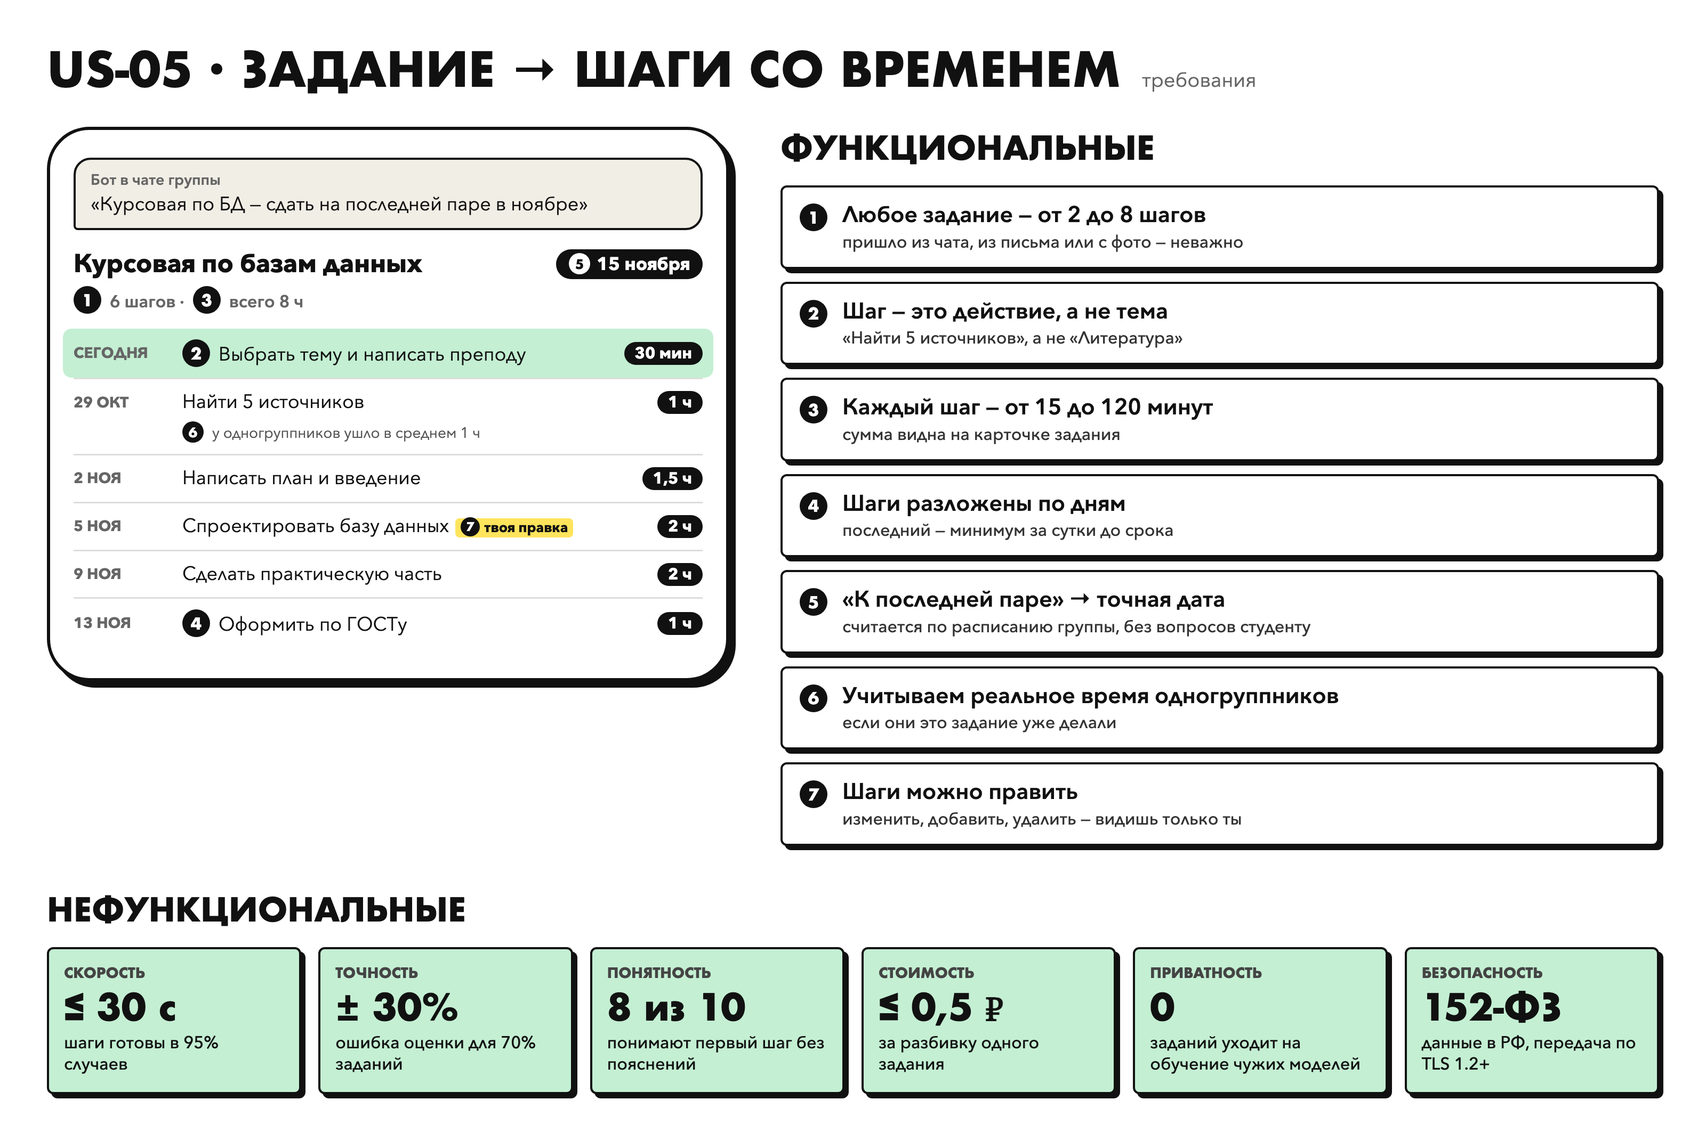
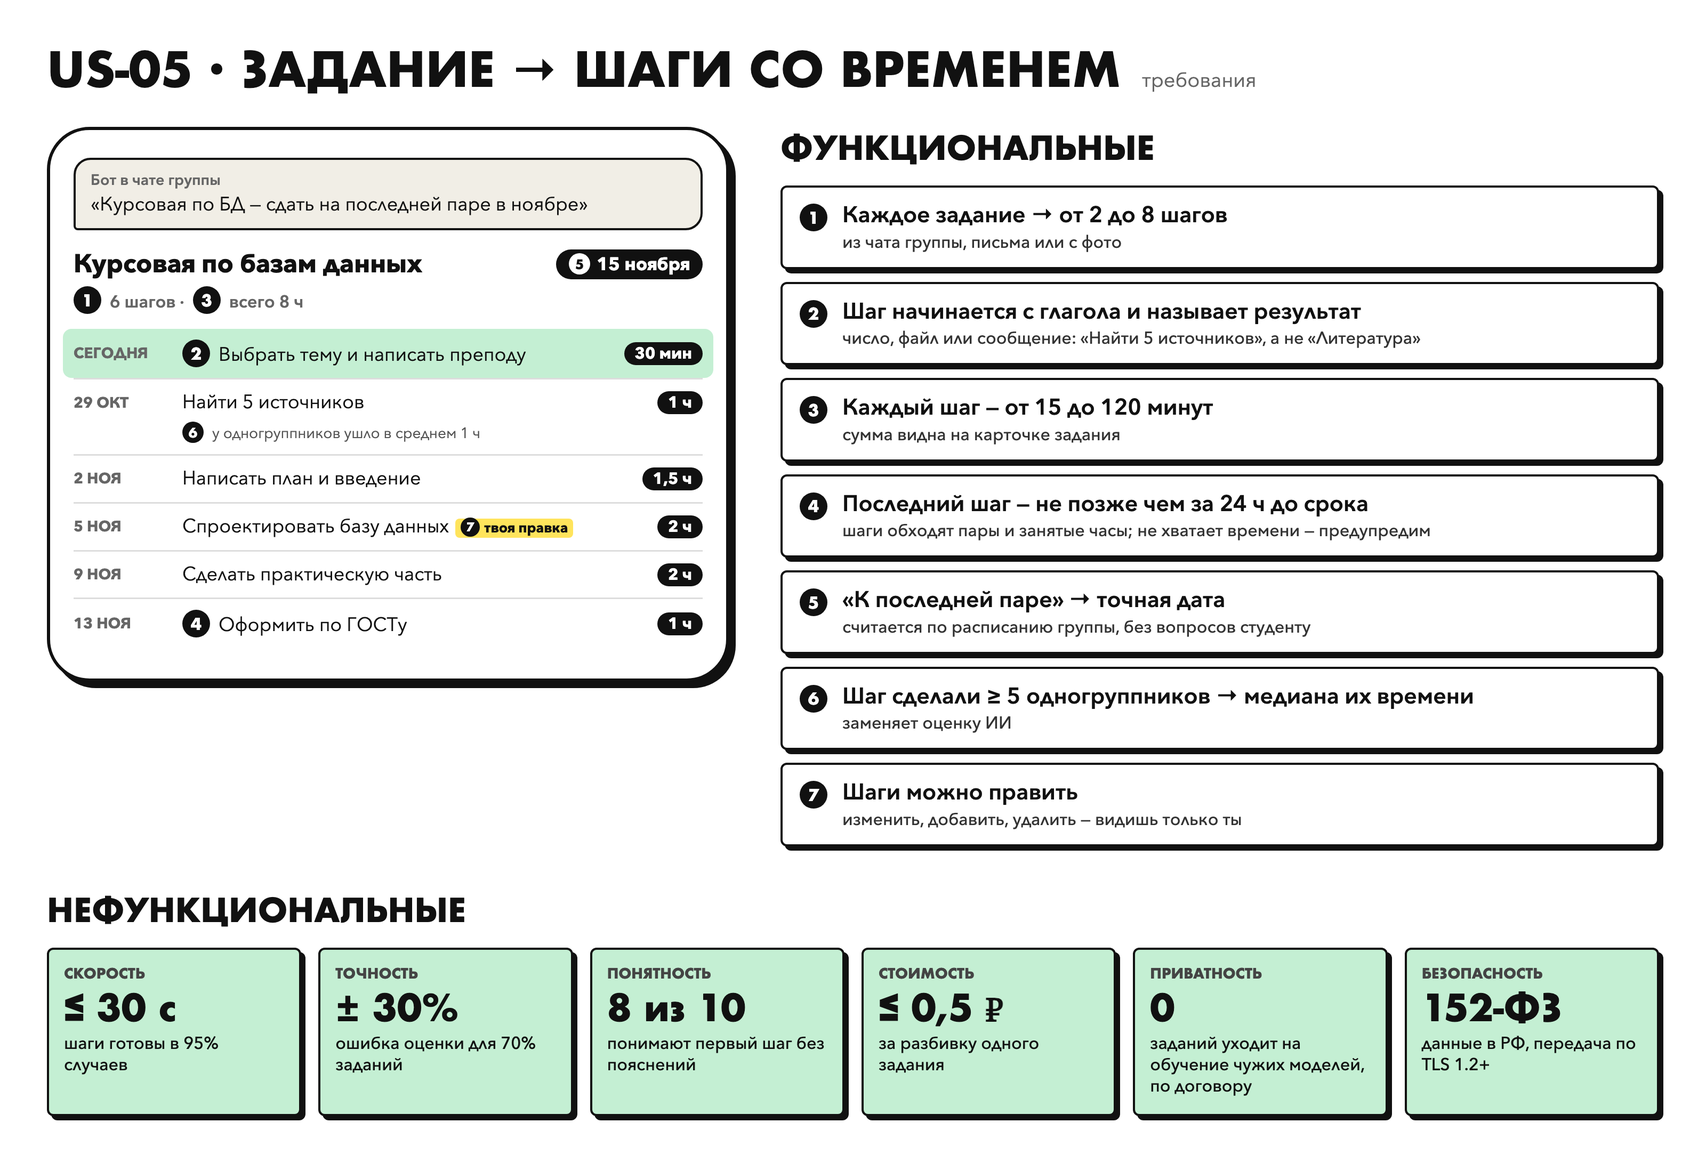
ПЗ-2, ПЗ-3: переформулированы гипотезы, учтено занятое время

Changed region(s): [[0.0312, 0.0924, 1.0, 0.7703], [0.0312, 0.7703, 0.9688, 0.9552], [0.6875, 0.0616, 0.7188, 0.0924]]

diff --git a/README.md b/README.md
@@ -2,7 +2,7 @@
 
 > Покажем, сколько у тебя учёбы на самом деле. Спойлер: на жизнь время есть.
 
-**Навигация:** [ПЗ-1 · Идея](#пз-1--идея-и-бизнес-модель) · [ПЗ-2 · Гипотеза и экономика](#пз-2--гипотеза-экономика-и-pivot) · [ПЗ-3 · Требования](#пз-3--роли-истории-и-требования)
+**Навигация:** [ПЗ-1 · Идея](#пз-1--идея-и-бизнес-модель) · [ПЗ-2 · Гипотезы и экономика](#пз-2--гипотезы-экономика-и-pivot) · [ПЗ-3 · Требования](#пз-3--роли-истории-и-требования)
 
 ---
 
@@ -63,16 +63,16 @@
 
 ---
 
-## ПЗ-2 · Гипотеза, экономика и Pivot
+## ПЗ-2 · Гипотезы, экономика и Pivot
 
 ### Две ключевые гипотезы
 
 | | Гипотеза | Какой риск | Если не подтвердится |
 |---|---|---|---|
-| **H1** | Если задание разбито на шаги с оценкой времени и каждое утро приходит «на сегодня — N минут», то студент начинает его раньше, а не в последнюю ночь | Ценность: план помогает начать | Продукт бесполезен, сколько бы заданий он ни собрал |
-| **H2** | Если староста позовёт группу, то за неделю присоединится не меньше 60% одногруппников, потому что задания у них общие | Рост: группа приходит целиком | Бот в чате и реальное время одногруппников не работают, а привлекать студентов по одному слишком дорого |
+| **H1** | Студенты будут работать по плану. Утром приходит конкретный шаг: «на сегодня — 30 минут: найти 5 источников». Студент делает его в тот же день, и курсовая начата за месяц до срока, а не в последнюю ночь | **Ценность:** план не просто читают, а выполняют | Студенты видят шаги, но всё равно откладывают. Продукт бесполезен, как бы хорошо он ни раскладывал задания |
+| **H2** | Не меньше 70% заданий студенты получают через чат группы, письмо или то, что можно сфотографировать (доска, слайд, скрин из ЛК). Значит, их можно поймать без ручного ввода | **Ввод заданий:** задания попадают в план сами | Студенту придётся вбивать задания руками, и он бросит. Без заданий нет плана |
 
-**Главная — H1.** H2 имеет смысл проверять, только если план вообще помогает: без этого звать группу не во что.
+**Главная — H1.** Если студенты не делают то, что написано в плане, неважно, как задания в него попадают.
 
 ### HADI-цикл для H1
 
@@ -80,10 +80,21 @@
 
 | Шаг | Содержание |
 |---|---|
-| **H — гипотеза** | Если разбивать каждое задание на шаги с оценкой времени и каждое утро присылать «на сегодня — N минут», то не меньше 50% заданий студенты начнут раньше чем за 3 дня до срока |
-| **A — действие** | Берём 6 групп по договорённости со старостами, срок — 3 недели. Член команды вступает в чат группы как обычный участник и выписывает задания. Шаги он готовит вручную с помощью ChatGPT и каждое утро пишет студентам в личку «на сегодня — N минут». В 3 группах так, в 3 других — только напоминание о сроке. Отметку «начал» и «сделал» студент ставит в обычном опросе Telegram |
-| **D — данные** | Доля заданий, начатых раньше чем за 3 дня до срока, в обеих половинах; доля сделанных шагов; насколько оценка времени совпала с фактом; опрос до и после: «Хватает ли тебе времени на что-то кроме учёбы?» |
-| **I — вывод** | Если в группах с шагами показатель ≥ 50% и хотя бы вдвое выше, чем в группах с напоминаниями, H1 подтверждена: переходим к H2 и только потом пишем код. Если нет, одного плана мало: меняем формат подсказки и повторяем цикл |
+| **H — гипотеза** | Если каждое утро присылать студенту один-два конкретных шага с оценкой времени, то не меньше 60% шагов он сделает в назначенный день, а не меньше 50% заданий будут начаты раньше чем за 3 дня до срока |
+| **A — действие** | Берём 6 групп по договорённости со старостами, срок — 3 недели. Член команды вступает в чат группы как обычный участник и выписывает задания. Шаги он готовит вручную с помощью ChatGPT и каждое утро пишет студентам в личку «на сегодня — N минут». В 3 группах так, в 3 других — только напоминание о сроке. Отметку «сделал» студент ставит в обычном опросе Telegram |
+| **D — данные** | Доля шагов, сделанных **в назначенный день**, и доля сделанных позже; доля дней, когда студент ответил на утреннее сообщение, по неделям: не бросают ли к третьей; доля заданий, начатых раньше чем за 3 дня до срока, в обеих половинах; опрос до и после: «Хватает ли тебе времени на что-то кроме учёбы?» |
+| **I — вывод** | **Оба порога выполнены** и показатель вдвое выше, чем в группах с напоминаниями: H1 подтверждена, проверяем H2 и только потом пишем код. **Шаги делают, но не в свой день:** план помогает, но расписание по дням не работает. Оставляем список шагов без жёстких дат. **К третьей неделе перестают отвечать:** формат утреннего сообщения надоедает. Меняем его и повторяем цикл. **Ничего не изменилось:** одного плана мало, продукт в этом виде не нужен |
+
+### Как проверим H2
+
+Дневник заданий, тоже без кода: 6–8 групп с трёх разных факультетов, 2 недели.
+- Каждое новое задание студент пересылает в общий чат исследования с тегом источника: `#чат`, `#устно`, `#доска`, `#почта`, `#ЛК`, `#LMS`.
+- В конце недели сверяем со старостой: не пропущено ли что-то.
+
+Что будем делать по итогам:
+- **≥ 70% из «ловимых» источников:** ввод работает как задумано (US-04, US-08, US-16).
+- **Много `#устно` без доски:** нужен быстрый голосовой ввод.
+- **Много `#LMS`:** US-20 поднимаем из Won't.
 
 ### Юнит-экономика: исходная модель
 
@@ -158,7 +169,7 @@
 | US-10 | Студент | Как студент, я хочу отмечать шаг сделанным, чтобы видеть, сколько осталось. | Must |
 | US-11 | Староста | Как староста, я хочу один раз загрузить расписание пар, чтобы план учитывал занятые часы всей группы. | Must |
 | US-12 | Администратор | Как администратор, я хочу видеть журнал ошибок и жалоб «неверная оценка», чтобы быстро исправлять ИИ. | Must |
-| US-13 | Студент | Как студент, я хочу, чтобы после пропущенного шага план перестраивался сам, чтобы не начинать заново. | Should |
+| US-13 | Студент | Как студент, я хочу, чтобы план перестраивался сам после пропущенного шага или новой отметки «занят», чтобы не начинать заново. | Should |
 | US-14 | Студент | Как студент, я хочу виджет «сегодня — 40 минут» на главном экране, чтобы видеть план, не открывая приложение. | Should |
 | US-15 | Студент | Как студент, я хочу получать утром уведомление с планом дня, чтобы не забывать о нём. | Should |
 | US-16 | Студент | Как студент, я хочу подключить онлайн-курс пересылкой писем, чтобы его задания попадали в тот же план. | Should |
@@ -192,7 +203,7 @@
 | ФТ-1 | Система должна создавать для каждого нового задания (из чата группы, письма или фото) от 2 до 8 шагов |
 | ФТ-2 | Название шага должно начинаться с глагола и называть проверяемый результат: число, файл или отправленное сообщение («Найти 5 источников», а не «Литература») |
 | ФТ-3 | Система должна давать каждому шагу оценку от 15 до 120 минут и показывать на карточке задания общую сумму |
-| ФТ-4 | Система должна раскладывать шаги по дням до срока так, чтобы последний шаг стоял не позже чем за 24 часа до дедлайна |
+| ФТ-4 | Система должна раскладывать шаги по дням до срока так, чтобы последний шаг стоял не позже чем за 24 часа до дедлайна. Шаги не ставятся на пары и на часы, которые студент отметил занятыми. Если до срока не хватает свободного времени, система предупреждает студента |
 | ФТ-5 | Если срок указан относительно («к следующей паре», «через две недели»), система должна вычислить дату по расписанию группы, не задавая вопросов студенту |
 | ФТ-6 | Если шаг этого задания уже сделали не меньше 5 одногруппников, система должна заменить оценку ИИ медианой их фактического времени |
 | ФТ-7 | Студент должен иметь возможность изменить, добавить или удалить шаг; правки видит только он |
@@ -218,7 +229,7 @@
 |---|---|
 | ФТ-1 | Экран должен показывать две цифры за текущую неделю (пн–вс): «учёба — N ч» и «свободно — M ч», округлённые до 0,5 часа |
 | ФТ-2 | «Учёба» — это сумма оценок шагов на этой неделе; пары в неё не входят и показываются отдельно |
-| ФТ-3 | Свободное время = 16 ч × 7 дней − пары − шаги − занятые часы, которые студент указал сам |
+| ФТ-3 | Свободное время = 16 ч × 7 дней − пары − шаги − занятые часы. Занятость студент отмечает сам: разово («пятница 19–23») или регулярно («работа по субботам 10–16») |
 | ФТ-4 | Каждый день показан полосой из четырёх частей: пары, шаги, занято, свободно |
 | ФТ-5 | Нажатие на день должно открывать список его шагов со временем |
 | ФТ-6 | Если на день приходится больше 3 часов шагов, система должна предложить перенести лишнее на самый свободный день до срока; перенос — только после подтверждения студента |
